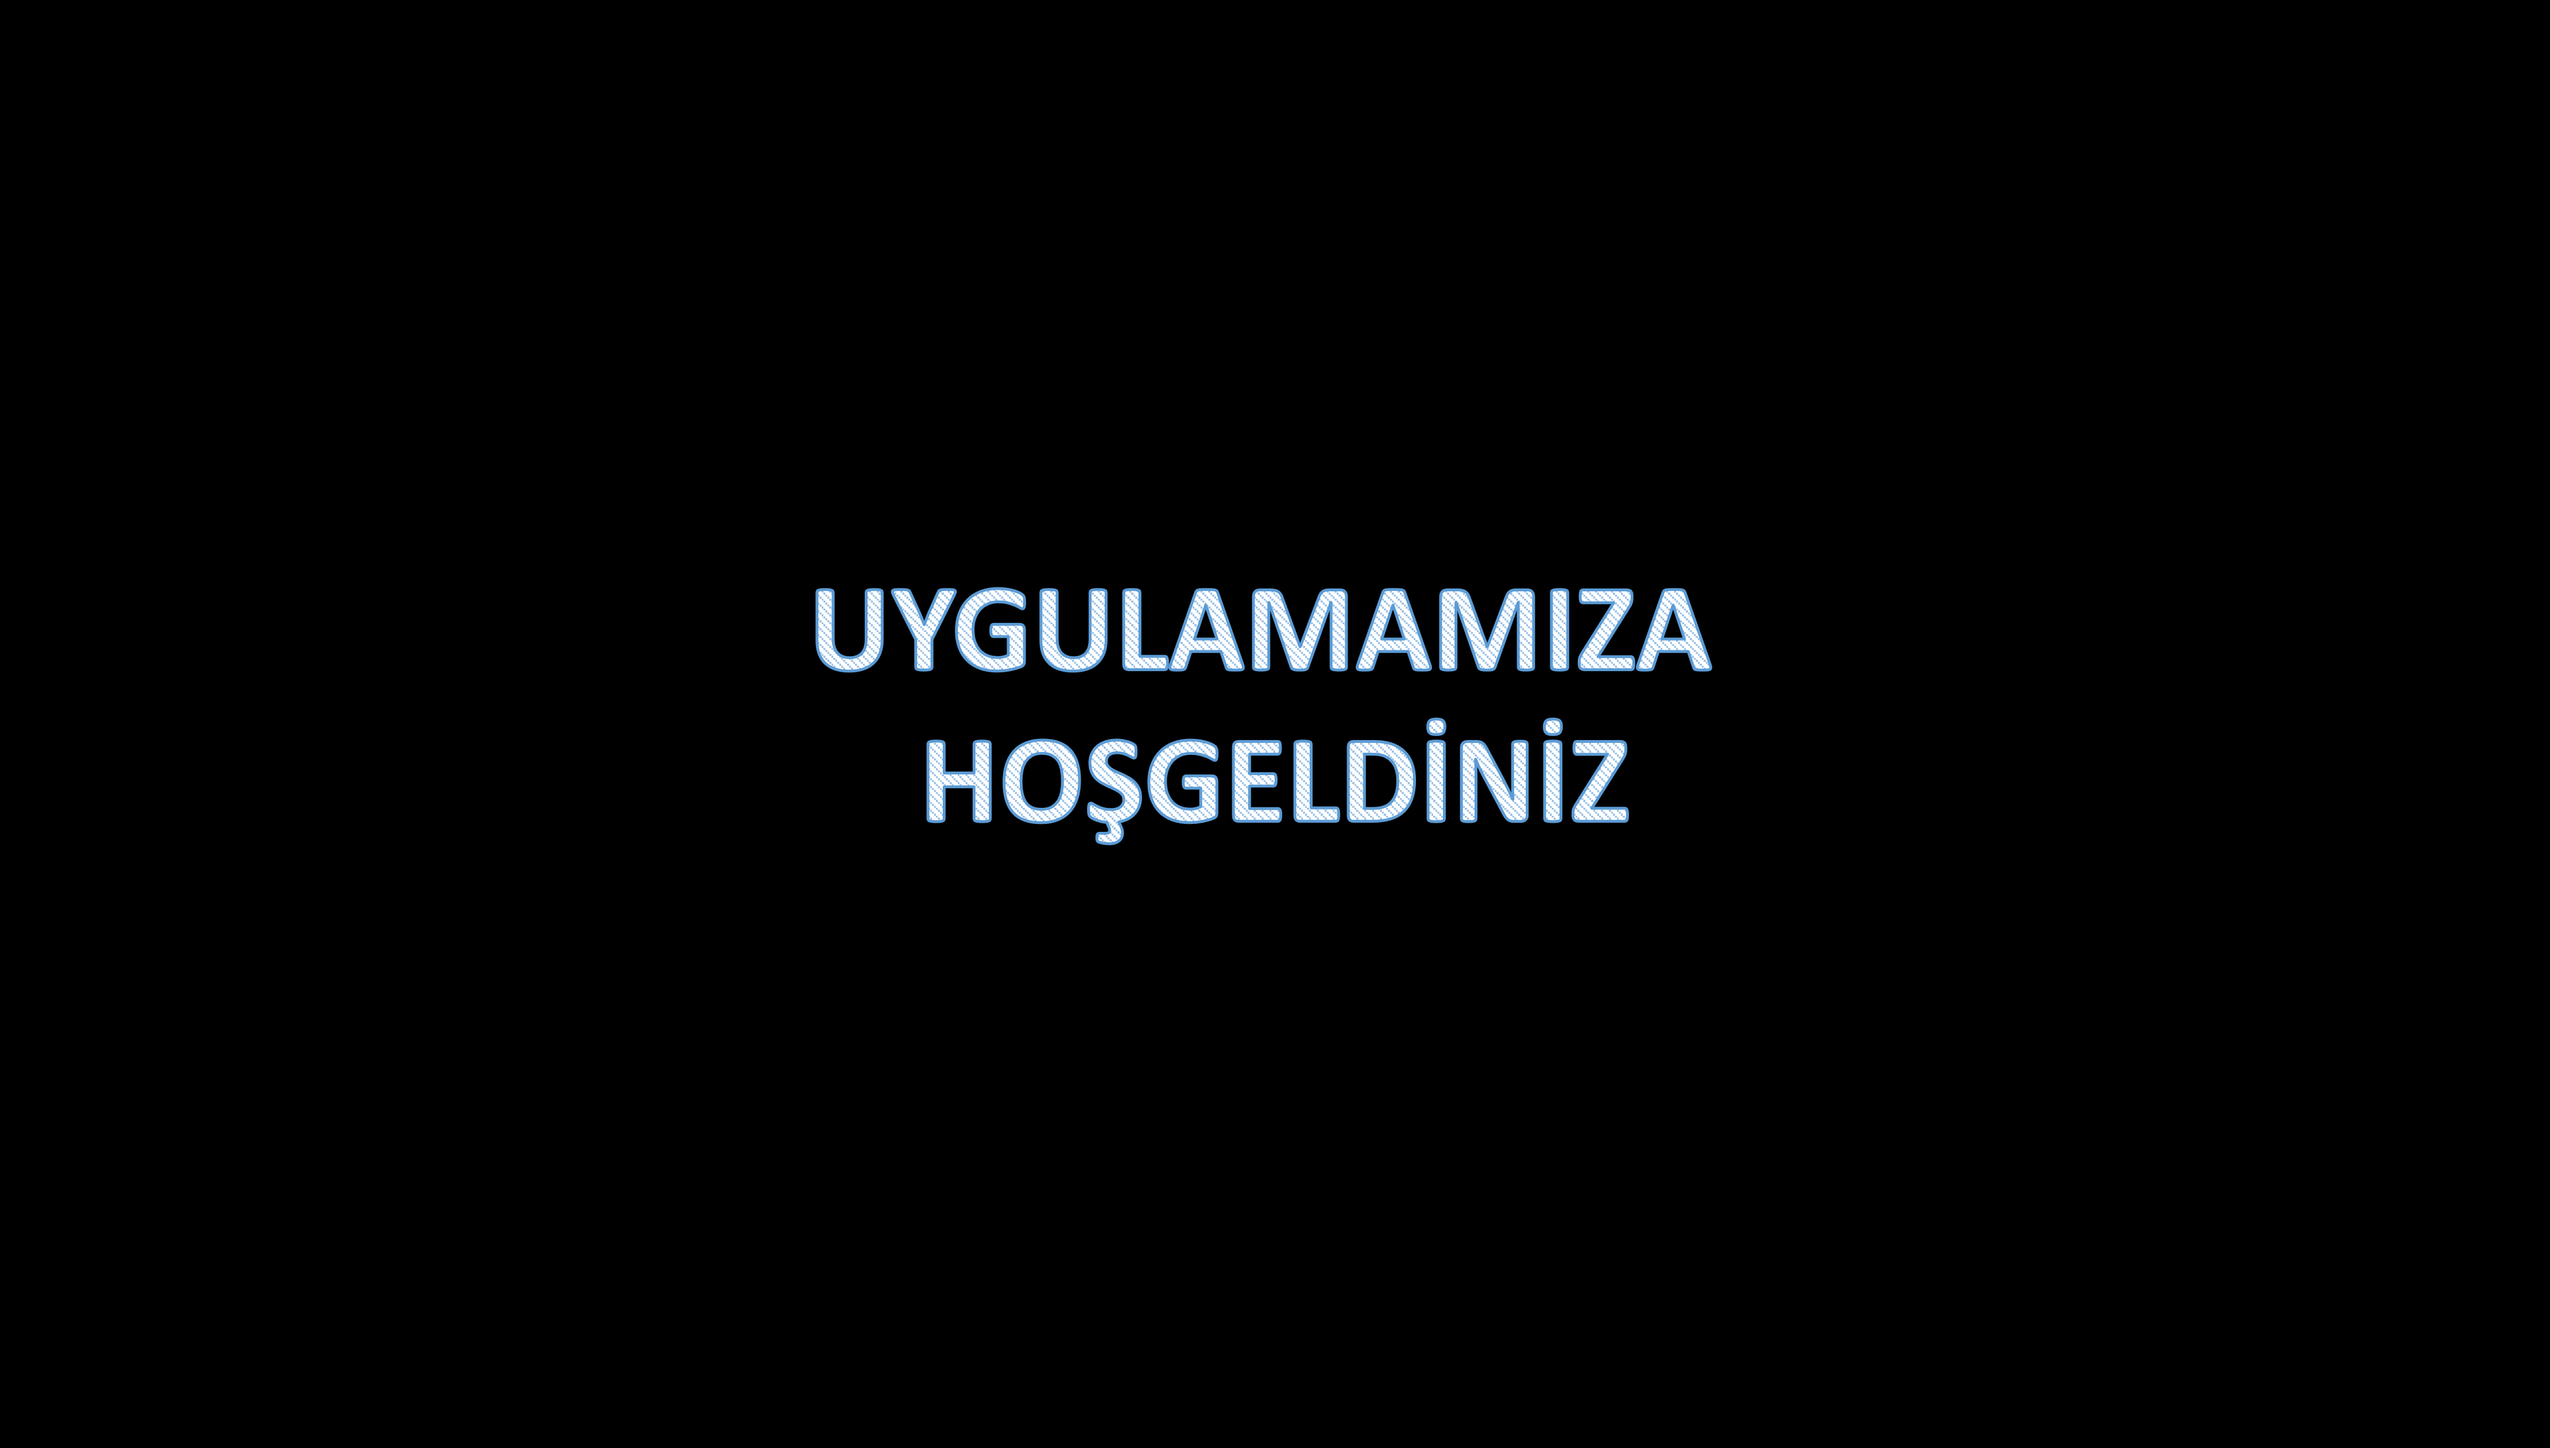
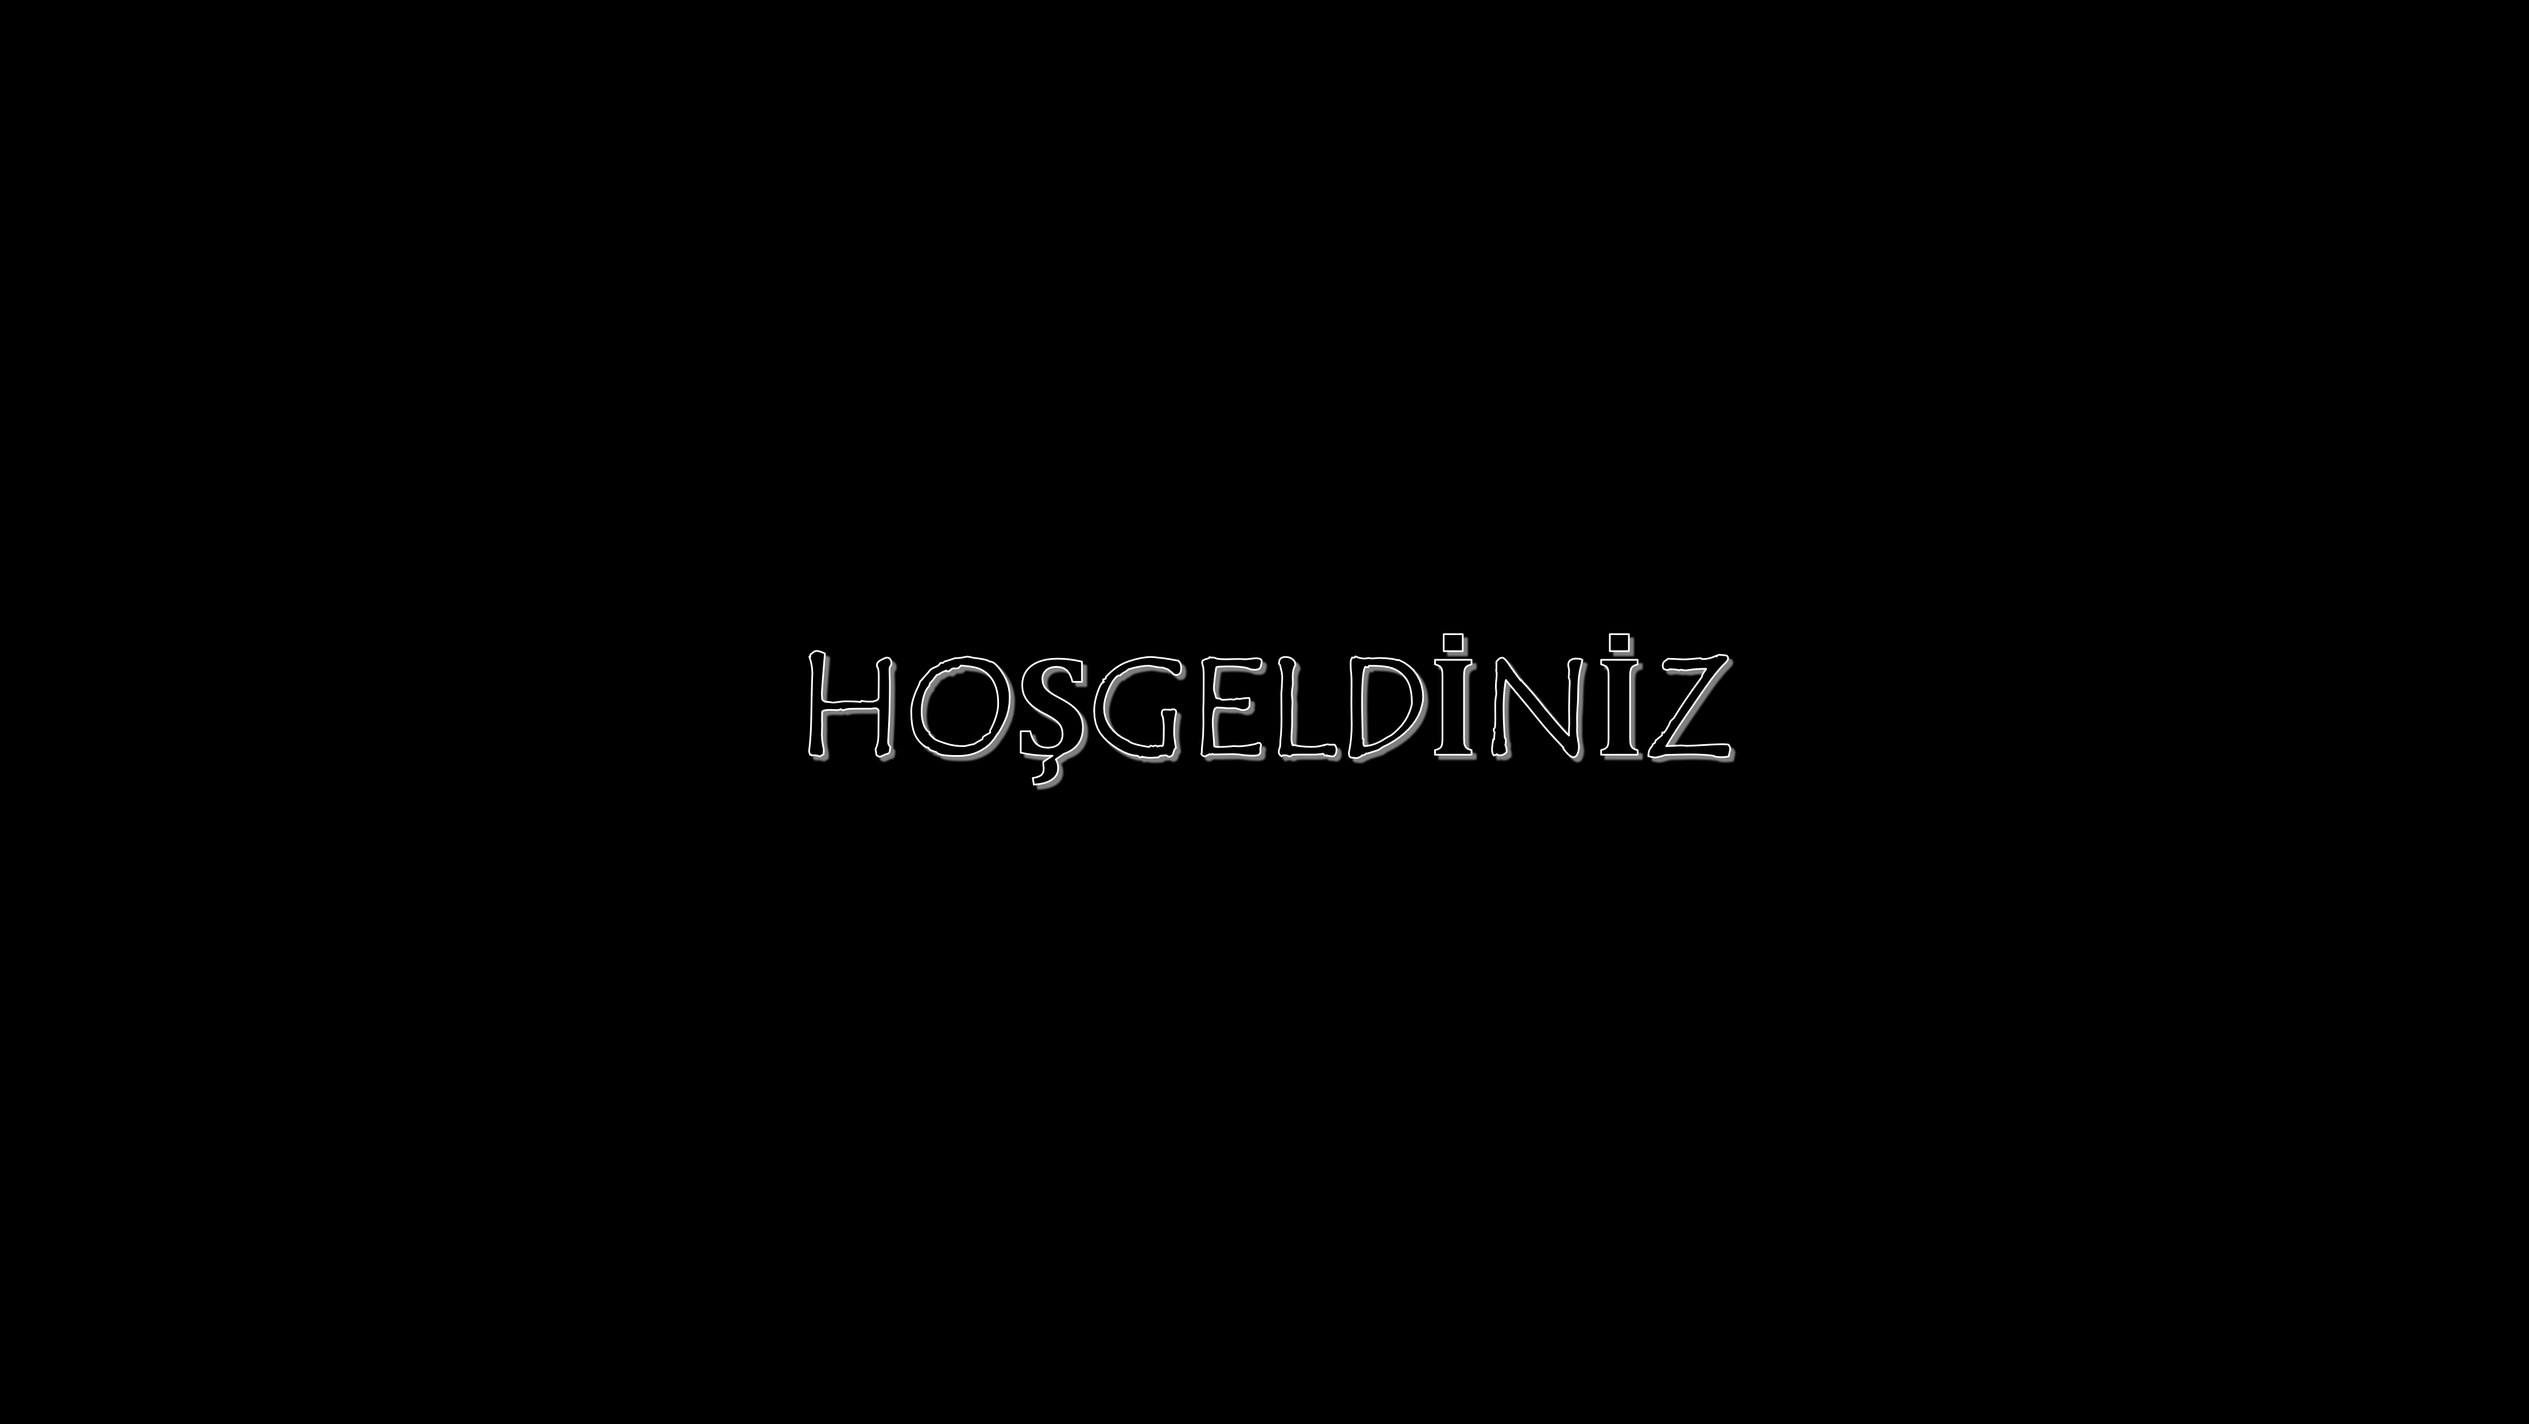
...

Changed region(s): [[0.311, 0.4036, 0.6842, 0.5899]]

diff --git a/index.html b/index.html
@@ -6,8 +6,9 @@
         <link rel="stylesheet" href="CSS/index.css">
         <title>ANASAYFA</title>
         <link rel="icon" href="STATIC/icon.png">
+        <link href='https://fonts.googleapis.com/css?family=Delius Unicase' rel='stylesheet'>
     </head>
-    <body style="margin: 0px;">
+    <body  id="govde" style="margin: 0px;margin-top: 0px;background-color: black;">
     </body>
 </html>
 <script>
@@ -15,6 +16,10 @@
     return new Promise(resolve => setTimeout(resolve, ms));
     }
     var cihaz_cozunurluk = [window.innerHeight,window.innerWidth]
+    document.getElementById("govde").style.width=cihaz_cozunurluk[1]+"px"
+    document.getElementById("govde").style.height=cihaz_cozunurluk[0]+"px"
+    console.log(document.body)
+    console.log(cihaz_cozunurluk)
     async function hosgeldin_mesaji(){
         await sleep(750)
         var giris_ekrani = document.createElement("div")
@@ -26,16 +31,24 @@
         giris_resim.setAttribute("id","giris_resim")
         giris_resim.src="STATIC/giris.gif"
         giris_ekrani.appendChild(giris_resim)
-        await sleep(4500)
+        /* await sleep(4500) */
         document.body.removeChild(giris_ekrani)
         var ust_sekme = document.createElement("div")
         ust_sekme.setAttribute("id","ust_sekme")
-        ust_sekme.innerText="selamselamselamselam"
         document.body.appendChild(ust_sekme)
+        document.getElementById("ust_sekme").style.width=cihaz_cozunurluk[1]+"px"
+        document.getElementById("ust_sekme").style.height=cihaz_cozunurluk[0]*7.5/100+"px"
         var ust_logo = document.createElement("img")
         ust_logo.setAttribute("id","ust_logo")
         ust_logo.src="STATIC/logo.png"
         ust_sekme.appendChild(ust_logo)
+        var ust_metin = document.createElement("p")
+        ust_metin.setAttribute("id","ust_metin")
+        ust_metin.innerText="3DM WEB-CBS UYGULAMASI"
+        ust_sekme.appendChild(ust_metin)
+
     }
     hosgeldin_mesaji()
+
+
 </script>

diff --git a/CSS/index.css b/CSS/index.css
@@ -6,13 +6,26 @@
     height: 100%;
 }
 #ust_sekme{
-    width: 100%;
-    height: 5%;
+    position: static;
     background-image: url("../STATIC/ustsekme.png");
     background-size: 100%;
     background-repeat: no-repeat;
-    background-position: center;
+    padding: 1px;
 }
 #ust_logo{
- width: 10%;
+float: left;
+height: 100%;
+}
+#ust_metin{
+    position: static;
+    width: 100%;
+    text-align: center;
+    font-style: normal;
+    font-family: "Delius Unicase";
+    color: white;
+    font-size: 300%;
+    margin-top: 8px;
+    margin-bottom: auto;
+    margin-left: auto;
+    margin-right: auto;    
 }
